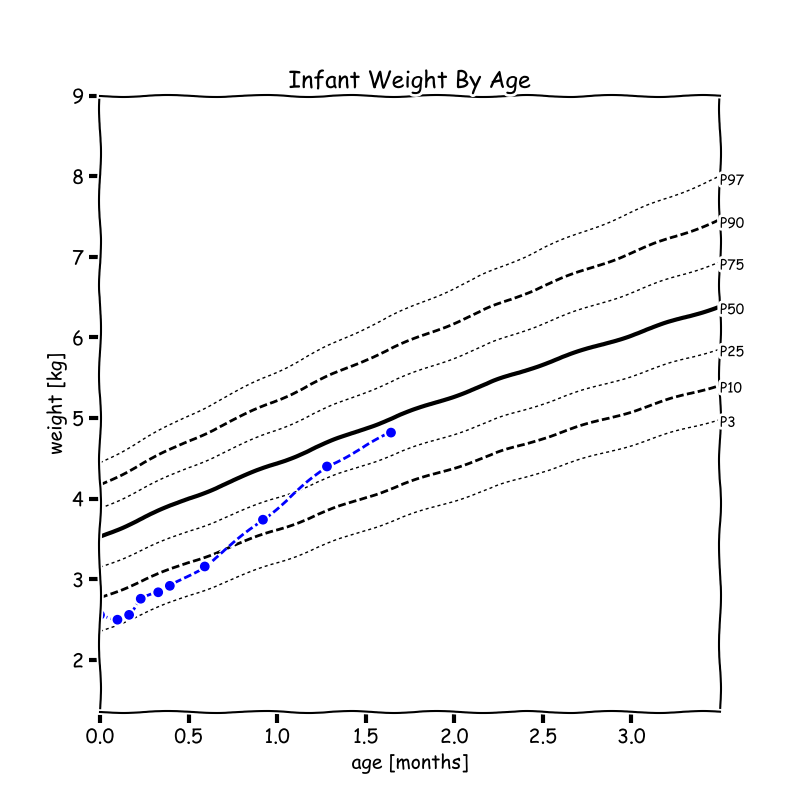
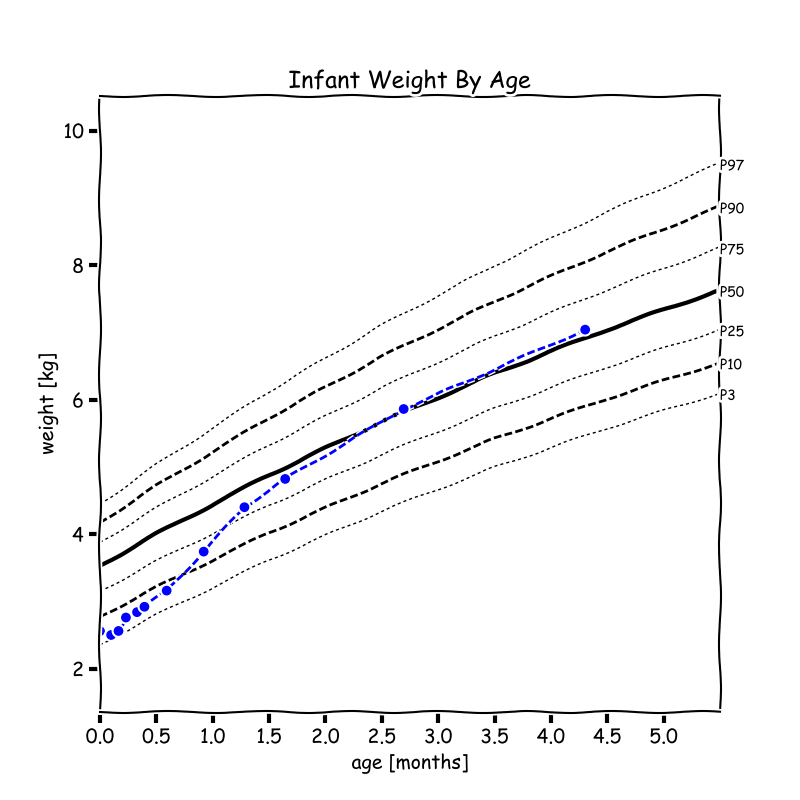
updates

diff --git a/growth_charts.py b/growth_charts.py
@@ -16,11 +16,11 @@ for who_dict_key in who_data.who_infant_df_dict.keys():
     for who_df_key in who_data.who_infant_df_dict[who_dict_key].keys():
         if who_df_key == 'infant_weight_by_length':
             child_data_df = child_data.wt_by_lt_df
-            x_limit = 60.5
-            x_tick_interval = 1
+            x_limit = 80.5
+            x_tick_interval = 3
         else:
             child_data_df = child_data.df
-            x_limit = 3.5
+            x_limit = 5.5
             x_tick_interval = 0.5
         plot_name = who_df_key
         plot = Plot(df=child_data_df,
